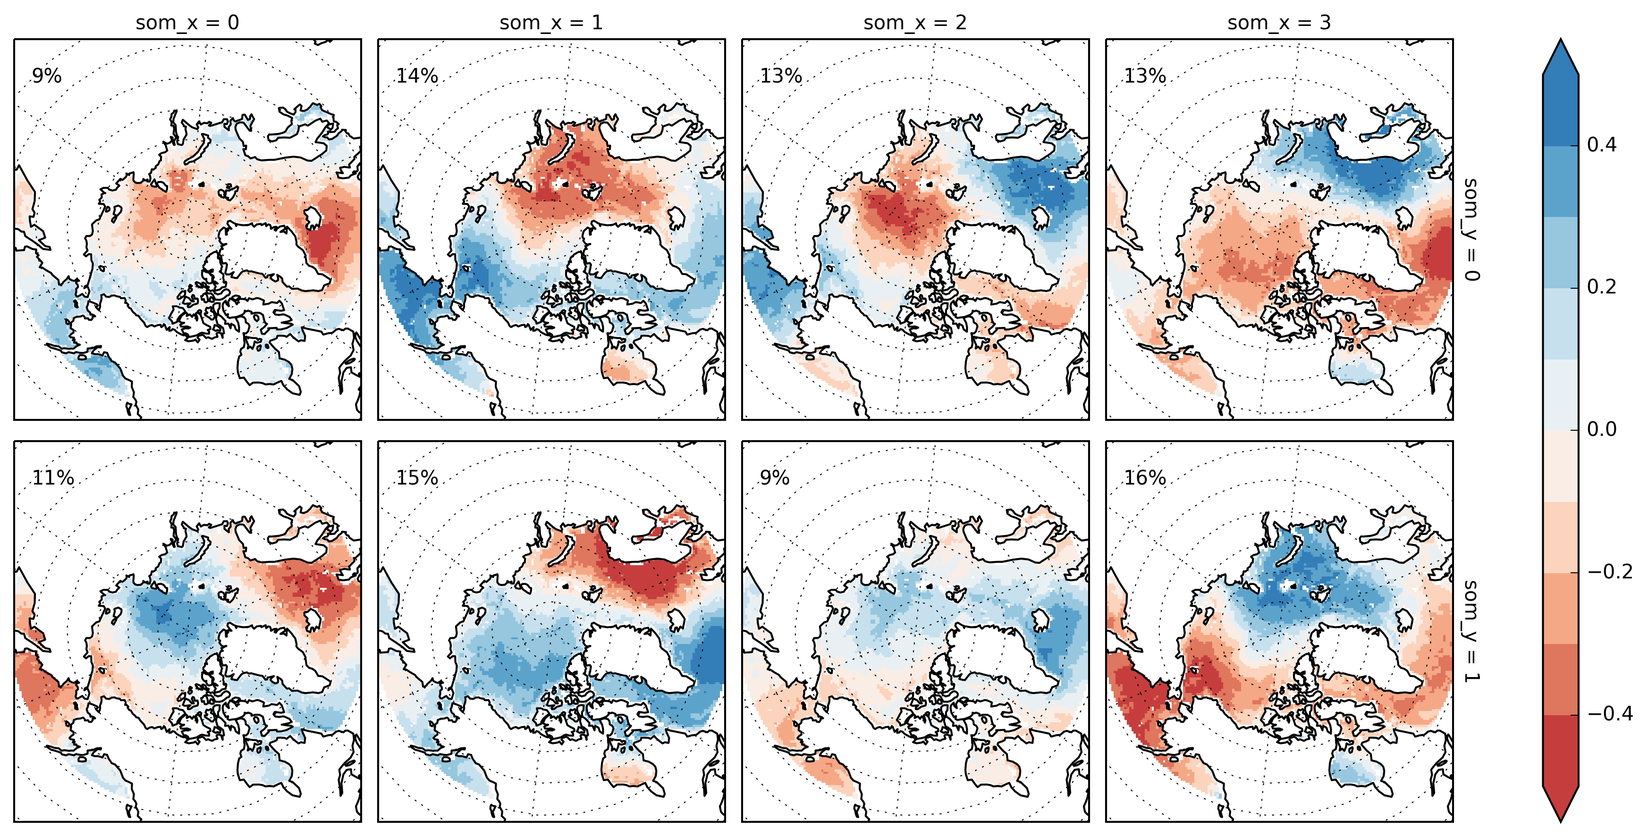
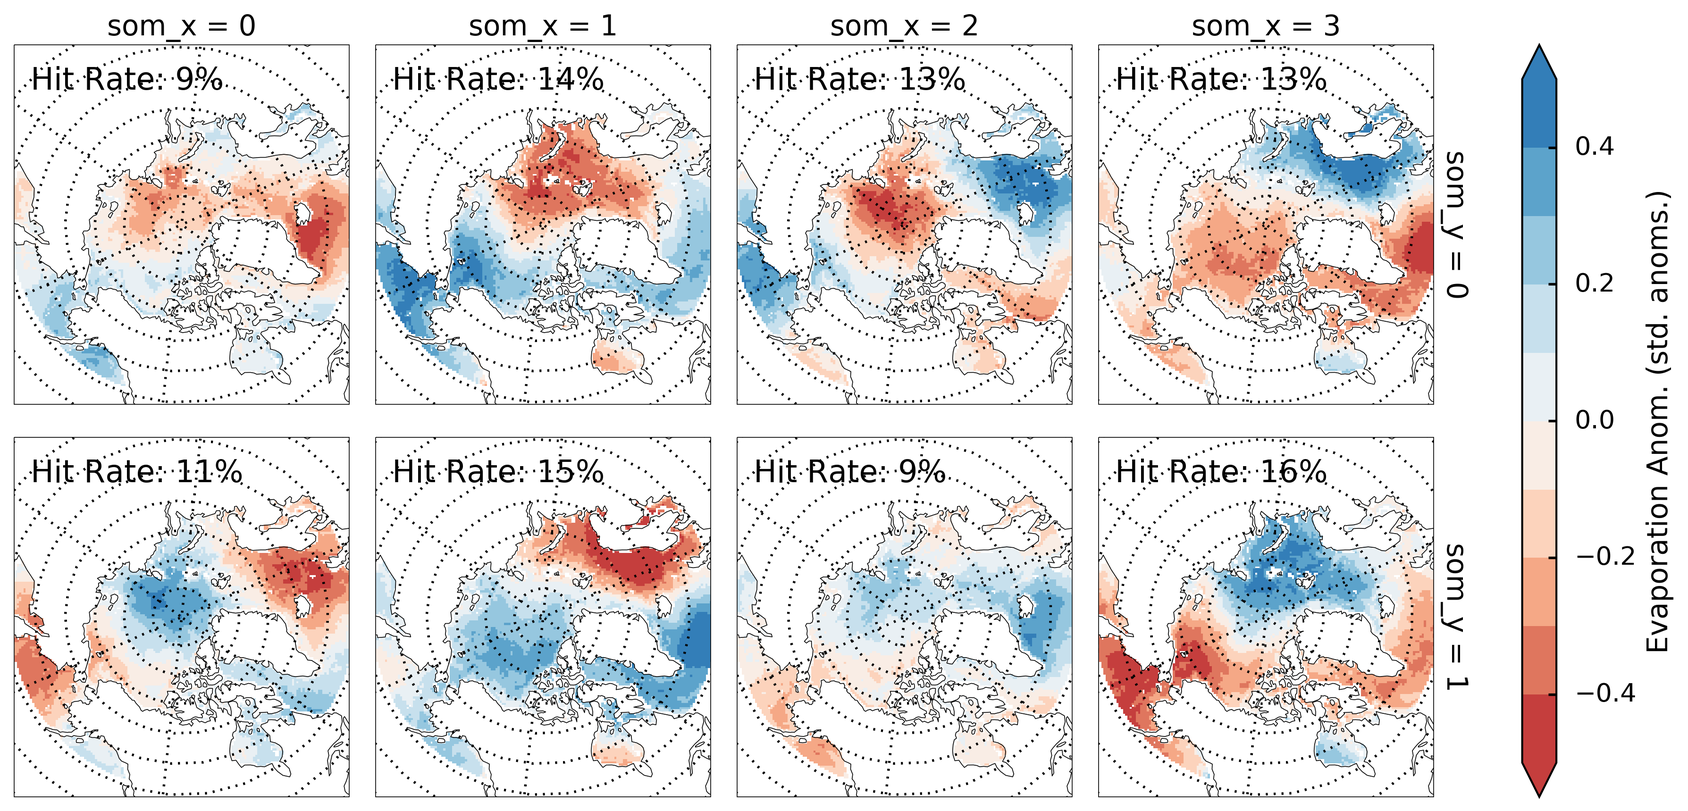
final mods to dissertation

diff --git a/chap5.tex b/chap5.tex
@@ -16,7 +16,7 @@ We hypothesize that the observed correlation between sea ice extent and high-lat
 To better understand the physical mechanisms driving the observed changes in the Arctic climate system and the sensitivity of the Arctic climate system to declining sea ice, we have used the fully-coupled Regional Arctic System Model (RASM) to simulate three distinct sea ice climates.
 The first climate represents normal sea ice extent, while the second and third represent reduced summer sea ice extent.
 The second part of this paper analyzes these three RASM simulations, in conjunction with our observation-based analysis, to understand the relationship between poleward moisture transport, sea ice extent, evaporation from the Arctic Ocean, and precipitation.
-We will present the RASM-simulated Arctic water budget and demonstrate the role of sea ice extent in driving fall precipitation anomalies.
+We present the RASM-simulated Arctic water budget and demonstrate the role of sea ice extent in driving fall precipitation anomalies.
 Finally, we use the Self-Organizing Map (SOM) machine learning technique to identify characteristic patterns of ocean evaporation and sea ice extent that contribute to anomalies in fall season precipitation.
 
 \section{Introduction}
@@ -27,7 +27,7 @@ Rapid declines in sea ice cover have been accompanied by reductions in permafros
 These combined changes have had a marked impact on the regional and global climate systems.
 Driving much of these changes has been a regional warming trend that is nearly twice as large as the global mean \citep{Serreze_2006c,Screen_2010}.
 This disparity in temperature increases is often referred to as Arctic Amplification and is largely explained by the ice-albedo feedback \citep{Curry_1995}.
-While this is likely the primary mechanism that leads to rapid warming in the Arctic, other, secondary feedback processes are also at play.
+While this is likely the primary mechanism that has led to the rapid warming in the Arctic, other, secondary feedback processes are also at play.
 One such feedback process relates the state and fluxes of the Arctic Ocean (sea surface temperatures or SSTs, sea ice cover, evaporation) to precipitation over land, which modulates winter snow cover and permafrost health.
 
 Observational evidence of an amplified hydrologic cycle \citep{Stocker_2005} has been found in the form of increasing precipitation \citep{Rawlins_2006}, runoff \citep{Peterson_2002}, and winter snow accumulations \citep{Kohler_2006,Bulygina_2009,Screen_2012}.
@@ -57,7 +57,7 @@ In Section \ref{sec:results_ch5} we present our analysis of these simulations, f
 \subsection{Model Simulations and Observations}
 We use three simulations from the Regional Arctic System Model \citep[RASM;][]{Hamman_2016a,Roberts_2015a}.
 RASM is a high-resolution, fully-coupled regional ESM that has been recently developed to improve the representation of coupled Arctic processes.
-RASM is comprised of individual land \citep[see][]{Hamman_2016a}, atmosphere \citep[see][]{Cassano_2016}, ocean \citep[see][]{Roberts_2015a}, sea ice \citep[see][]{Roberts_2015a}, and runoff \citep[see][]{Hamman_2016b} components, coupled via the CESM flux coupler \citep{Craig_2012}. % BN: No space after the text in \citep[text] - latex already adds one.
+RASM is comprised of individual land \citep[see][]{Hamman_2016a}, atmosphere \citep[see][]{Cassano_2016}, ocean \citep[see][]{Roberts_2015a}, sea ice \citep[see][]{Roberts_2015a}, and runoff \citep[see][]{Hamman_2016b} components, coupled via the Community Earth System Model (CESM) flux coupler \citep{Craig_2012}.
 In RASM, the atmosphere is forced at its lateral boundaries with the ERA-Interim Reanalysis \citep{Dee_2011} and the ocean's closed boundaries are relaxed to the climatology from \citet{Steele_2001}.
 It is important to note that spectral nudging is applied to temperature and winds in RASM above 500 hPa.
 From a practical perspective, the impact of this nudging means that the synoptic scale circulation patterns in all three RASM simulations closely match those of ERA-Interim \citep{Glisan_2013}.
@@ -88,14 +88,14 @@ Observations of sea ice extent are taken from the National Snow and Ice Data Cen
 Gridded precipitation observations between 1979 and 2014 are taken from CRU TS v.3.23 \citep{Harris_2014}.
 
 \subsection{Self-Organizing Maps}
-In Section \ref{sec:rasm_results}, we present results using the Self-Organizing Maps algorithm \citep[SOMs][]{Kohonen_1998,Hewitson_2002}, which is a technique for dimension reduction that allows for the identification of unique climatological patterns.
-SOMs are a type of unsupervised machine learning, utilizing artificial neural networks to create a lower-dimensional representation of high-dimensional datasets.
+In Section \ref{sec:rasm_results}, we present results using the Self-Organizing Maps algorithm \citep[SOMs;][]{Kohonen_1998,Hewitson_2002}, which is a technique for dimension reduction that allows for the identification of unique climatological patterns.
+SOMs are a technique that uses unsupervised machine learning, utilizing artificial neural networks to create a lower-dimensional representation of high-dimensional datasets.
 They have been applied previously in studies of polar climatology to study synoptic scale atmospheric circulation \citep[e.g.][]{Cassano_2007}, extreme weather events \citep[e.g.][]{Cassano_2015,Glisan_2016}, and coupled ocean-atmosphere processes \citep[e.g.][]{DuVivier_2016}.
 
 In our analysis, we trained a 2x4 SOM, using standardized ocean evaporation anomalies north of 55$^{\circ}$ N from the three RASM simulations described in Section \ref{sec:data_models_ch5} for individual fall months (August-October) between 1985 and 2014.
 In total, the training dataset combines the three simulations, resulting in 270 months of evaporation anomalies.
 By combining the three RASM simulations, we effectively increase the training dataset space and allow for the determination of changes in pattern occurrence between the simulations.
-Standardized anomalies were calculated relative to the climatology for the entire analysis period.
+Standardized anomalies were calculated relative to the mean climatology for the entire analysis period.
 We used an evaluation metric of Euclidean distance, a learning rate of 0.001, and a maximum number of iterations of 2000.
 The shape of the 2x4 SOM was chosen to provide a sufficient number of unique patterns while maximizing the average number of samples in each pattern.
 The SOM was initialized with spatially independent random fields from a standard normal distribution.
@@ -107,8 +107,8 @@ Further details on the SOM algorithm can be found in \citet{Reusch_2005} or \cit
 % Motivation and establishing a connection between sea ice extent and precipitation
 Our hypothesized relationship between precipitation and sea ice extent builds on the observed interannual covariation of precipitation and minimum sea ice extent across the Arctic drainage basin.
 Here we define the Arctic drainage basin as the land areas draining to the ocean model within the RASM model.
-Figure \ref{fig:prec_spatial_corr} shows the Spearman rank-order correlation coefficients between minimum annual sea ice extent and seasonal total precipitation between August-October from the CRU dataset at each grid point within the Arctic drainage basin.
-Across most of the Siberian portion of the domain, correlations or consistently negative with values as low as -0.55.
+Figure \ref{fig:prec_spatial_corr} shows the Spearman rank-order correlation coefficients between minimum annual sea ice extent and total precipitation between August-October from the CRU dataset at each grid point within the Arctic drainage basin.
+Across most of the Siberian portion of the domain, correlations are consistently negative with values as low as -0.55.
 Conversely, correlations across North America and northern Europe are predominantly near zero or positive.
 Generally, a moderately consistent relationship exists between sea ice extent and precipitation, especially in the high-latitude regions of the study domain.
 In the following sections, we will explore this relationship further with the goal of understanding the observed spatial patterns and driving mechanisms.
@@ -124,10 +124,10 @@ In the following sections, we will explore this relationship further with the go
 \label{sec:rasm_results}
 
 % RASM sea ice sensitivity
-Figure \ref{fig:sea_ice_box} shows box-and-whisker plots of sea ice extent from the three RASM simulations, described in Section \ref{sec:data_models_ch5}, compared to the NSIDC observation-based estimates.
-Compared to $RASM_{CONTROL}$, $RASM_{RSI}$ and $RASM_{RSH}$ have reductions in minimum annual sea ice extents of 16\% and 49\% respectively.
-In the fall, these simulations include smaller reductions in mean sea ice cover of 3\% and 11\% respectively (see also supplemental Figures \ref{fig:sea_ice_ts_sup}-\ref{fig:sea_ice_conc_sup}). % BN: I don't understand why these numbers are identical in \% from the previous version of the manuscript which looked at a different period. Are these numbers correct? Or are you referring here to the October - December period, which I would not call the fall in this context (since you already use that for August - October)
-However, compared to the RASM simulations, the NSIDC observations of sea ice extent demonstrate significantly more interannual variability.
+Figure \ref{fig:sea_ice_box} shows box-and-whisker plots of sea ice extent from the three RASM simulations, described in Section \ref{sec:data_models_ch5}, and the NSIDC observation-based estimates.
+Compared to $RASM_{CONTROL}$, $RASM_{RSI}$ and $RASM_{RSH}$ have reductions in September sea ice extents of 16\% and 49\% respectively.
+In the fall, these simulations include smaller reductions in mean sea ice cover of 3\% and 11\% respectively (see also supplemental Figures \ref{fig:sea_ice_ts_sup}-\ref{fig:sea_ice_conc_sup}).
+However, compared to the RASM simulations, the NSIDC observations of sea ice extent demonstrate substantially more interannual variability.
 Individual months can be clearly seen in Figure \ref{fig:sea_ice_box} with the lowest values in each simulation corresponding to August (gray) and September (red) and the highest values corresponding to October (blue).
 The RASM simulations have interannual standard deviations for each of these months that are 1.7 to 3.3 times smaller than the observations.
 The dampened interannual variability of the individual RASM simulations is attributable to the lack a long term trend in sea ice extent (Fig. \ref{fig:sea_ice_min_ts_sup} in the supplemental material) related to a persistent radiation bias in RASM over the central Arctic in the winter \citep{Cassano_2016}.
@@ -140,7 +140,7 @@ The dampened interannual variability of the individual RASM simulations is attri
 \end{figure}
 
 Figure \ref{fig:fwb} presents the freshwater budget for the Arctic Ocean and its terrestrial drainage area, summarized for the fall months (August-October) for the three RASM simulations.
-The  moisture convergence for the three simulations varies less than 27 $km^3$ per season (or 1.5\% of $RASM_{CONTROL}$), with $RASM_{RSH}$ having less moisture convergence than $RASM_{CONTROL}$.
+The  moisture convergence for the three simulations varies by less than 27 $km^3$ per season (or 1.5\% of $RASM_{CONTROL}$), with $RASM_{RSH}$ having less moisture convergence than $RASM_{CONTROL}$.
 Consequently, increases in the distribution of evaporation and precipitation shown in Figure \ref{fig:fwb} are sourced from within the central Arctic.
 The reductions in sea ice extent in $RASM_{RSI}$ and $RASM_{RSH}$ are coincident with increases in ocean evaporation of 38 $km^3$ and 121 $km^3$ per season (15\% and 48\%), respectively.
 These changes in evaporation from the ocean coincide with increases in precipitation over the ocean of 27 $km^3$ and 62 $km^3$ per season (3\% and 11\%) and reductions in convergence over the ocean mask of 11 $km^3$ and 60 $km^3$ (1.5\% and 8\%), respectively.
@@ -148,7 +148,7 @@ Convergence is defined here as P-E between August and October.
 Finally, the precipitation over land is found to increase relative to the baseline case for both $RASM_{RSI}$ and $RASM_{RSH}$ by 26 $km^3$ and 61 $km^3$ per season (or 1\% and 2\%), respectively.
 Also contributing to the increase in precipitation over land is an increase in seasonal evaporation from the land that comes in response to the reduced sea ice and associated warming of $1-3^{\circ}C$ across the high-latitude land areas.
 
-Summarizing the water budget analysis, we find that the forced decreases in albedo in $RASM_{RSI}$ and $RASM_{RSH}$ lead to increases in divergence from the Arctic Ocean. % BN: Be careful with mixing the colloquial use of `significant` with the statistical meaning in scientific papers
+Summarizing the water budget analysis, we find that the forced decreases in albedo in $RASM_{RSI}$ and $RASM_{RSH}$ lead to increases in divergence from the Arctic Ocean.
 Because small increases in evapotranspiration over land are balanced by small changes in convergence, the net change in precipitation over land almost entirely results from increased evaporation over the Arctic Ocean.
 Changes in the spatial patterns of precipitation between the three RASM simulations (not shown) are mostly confined to the Arctic Ocean with less distinct spatial patters over land.
 While this muted response may be partially explained by the limited interannual variability in the RASM sea ice extent, it also indicates that changes in evaporation from the Arctic Ocean must be accompanied with changes in circulation patterns if increases in precipitation are to be attributed to sea ice loss.
@@ -162,20 +162,19 @@ While this muted response may be partially explained by the limited interannual 
 
 % SOM analysis
 We have applied the SOM technique on standardized evaporation anomalies across the Arctic Ocean to better understand the coupling between ocean-sourced evaporation and anomalies in precipitation over land during the fall season.
-As shown by the water budget analysis, fairly large relative increases in ocean evaporation led to small relative changes in precipitation over land, although the increases in the reduced sea ice simulations can be attributed almost entirely to increased ocean evaporation.
+As shown by the water budget analysis, fairly large relative increases in ocean evaporation led to small, but positive, relative changes in precipitation over land, although the increases in the reduced sea ice simulations can be attributed almost entirely to increased ocean evaporation.
 In applying SOMs, we will be able to connect regional patterns of ocean evaporation, sea ice extent, and atmospheric circulation to precipitation patterns over land.
 
 % MASTER SOM
 The full, trained Kohonen Layer (or Master SOM) is shown in Figure \ref{fig:master_som}.
-Our analysis focuses on four SOM nodes that exhibit the largest hit rate (number of months in a particular pattern) and evaporation patterns of interest: (0,1), (1,1), (0,3), and (1,3). % BN: I do not understand the numbering. Assuming the first value is `som_x` and the second value is `som_y`, then there is no (0,3) or (1,3). If you are using `som_y, som_x`, then you need to explain that. As is, I think these should all be reversed. Alternatively change figure 5.4 to explicitly identify each SOM (as in Figure 5.6)
+Our analysis focuses on four SOM nodes that exhibit the largest hit rate (number of months that fall into a particular pattern) and patterns of evaporation anomalies of interest: (0,1), (1,1), (0,3), and (1,3) where the first coordinate is labeled as $som\_y$ and the second as $som\_x$.
 We will show that the first two SOMs represent generally dry patterns (low precipitation over land) while the second two represent generally wet patterns (high precipitation over land) by mapping these patterns to their coincident patterns of precipitation.
 In each of these patterns, the combined position, sign, and magnitude of evaporation anomalies in the central Arctic, Kara/Barents Seas, and North Atlantic Ocean are characteristically different.
 
 \begin{figure}
   \centering
   \includegraphics[width=16cm,keepaspectratio]{master_som}
-  \caption{Master SOM. The hit rate, shown as the percentage of all the months (270) in the training dataset that are part of each pattern, is shown in the top left corner.} % BN: The color bar needs a label. As is, this figure is not very readable since I have no idea what is shown and how to read it. In the text you say that `spatial patterns of evaporation anomalies with patterns of positive evaporation anomalies toward the right of Figure \ref{fig:master_som} and patterns of negative evaporation anomalies toward the left.` but how am I to interpret that from this figure? I can get it from the combined SOM, but not from this figure by itself as far as I can tell. Keep in mind that most people do not use SOMs, so you need to go the extra mile to explain them. The caption should be extended to allow the figure to stand more on its own.
-  % BN: Please increase the label sizes in this plot. Also since you have enought space, precede the numbers with `hit rate: X\%`
+  \caption{Master SOM. The hit rate, shown as the percentage of all the months (270) in the training dataset that are part of each pattern, is shown in the top left corner. Positive evaporation anomalies are shown in blues, while negative evaporation anomalies are shown in red.}
   \label{fig:master_som}
 \end{figure}
 
@@ -183,8 +182,8 @@ In each of these patterns, the combined position, sign, and magnitude of evapora
 Figure \ref{fig:composite_som} presents the mapped fields for the four SOM nodes discussed above.
 Each of the mapped fields represents the composite mean anomalies of all months assigned to each SOM node.
 Here we focus on ocean evaporation, sea level pressure (SLP), sea ice concentration, and precipitation over land.
-For node (0,1), anomalously low evaporation rates from the Kara and Barents Seas are accompanied by anomalously high pressure across the Siberian Shelf.
-This combination leads to negative precipitation anomalies over northern Siberia.
+For node (0,1), anomalously low evaporation rates from the Kara and Barents Seas are accompanied by anomalously high pressure over the Siberian Shelf.
+This combination leads to negative precipitation anomalies across northern Siberia.
 Node (1,1) exhibits positive evaporation anomalies in the central Arctic and negative evaporation anomalies in the Kara and Barents Seas.
 SLPs for this node are anomalously low over Greenland and high over Northern Europe.
 Corresponding precipitation anomalies for node (1,1) are negative over Northern Europe and near normal across Siberia.
@@ -194,13 +193,12 @@ However, adjacent land regions only show relatively small positive anomalies ove
 \begin{figure}
   \centering
   \includegraphics[width=16cm,keepaspectratio]{composite_som}
-  \caption{SOM nodes (0,1), (1,1), (0,3), and (1,3) mapped to ocean evaporation, sea level pressure (SLP), sea ice concentration, and precipitation over land. Values plotted are the average anomalies across all the members of each node.} % BN : See comment above about numbering
-  % BN : May improve readability to repeat the SOM in the first row
+  \caption{SOM nodes (0,1), (1,1), (0,3), and (1,3) mapped to ocean evaporation, sea level pressure (SLP), sea ice concentration, and precipitation over land. Values plotted are the average anomalies across all the members of each node.}
   \label{fig:composite_som}
 \end{figure}
 
-Node (0,3) exhibits positive evaporation anomalies across the European side of the Arctic Ocean, accompanied by lower than normal pressures over Northern Europe. % BN: Please do NOT use the `positive (negative)` notation as it is confusing and ugly. There is a good post or article from Alan Robock somewhere bitching about this and I fully agree.
-Node (1,3) shows positive ocean evaporation anomalies near Siberia and lower than normal pressures over Northern Siberia (1,3).
+Node (0,3) exhibits positive evaporation anomalies across the European side of the Arctic Ocean, accompanied by lower than normal SLP over Northern Europe.
+Node (1,3) shows positive ocean evaporation anomalies near Siberia and lower than normal SLP over Northern Siberia (1,3).
 These patterns lead to positive anomalies in precipitation over land, particularly when the SLP patterns would encourage onshore flow from regions with positive anomalies in evaporation.
 The lack of strong correspondence between sea ice and evaporation anomalies indicates that variability in the fall evaporation flux in RASM is largely being driven by patterns in the ocean and atmosphere rather than changes in sea ice.
 
@@ -209,16 +207,14 @@ The trained SOM can be used to identify the frequency of occurrence of each patt
 Figure \ref{fig:som_hit_freq} plots the pattern frequency, by month and simulation, for each node in the 2x4 SOM.
 Nodes (0,1) and (1,1), which have a large region of positive evaporation anomalies across the Kara and Barents Seas, occur less frequently in $RASM_{RSH}$ as in $RASM_{CONTROL}$.
 The opposite is found in node (1,3), where the pattern frequency is found to increase under reduced sea ice conditions.
-On the whole, the SOM analysis indicates that decreasing sea ice extent and the associated evaporation changes are most likely to contribute to wetting trends over land when these changes are accompanied by a shift in atmospheric circulation (e.g. node (1,3)).
+On the whole, the SOM analysis indicates that decreasing sea ice extent and the associated evaporation changes are most likely to contribute to wetting trends over land when these changes are accompanied by a shift in atmospheric circulation [e.g. node (1,3)].
 Global climate models tend to suggest that future Arctic climate will be stormier \citep{Vavrus_2012} and that fall and winter circulation patters may trend toward a more variable pattern.
-However, the patterns with large shifts in frequency ([)nodes (0,1) and (1,1)) change in ways that limit the impact of sea ice loss, which indicates that the precipitation response may be dampened.
+However, the patterns with large shifts in frequency [nodes (0,1) and (1,1)] change in ways that limit the impact of sea ice loss, which indicates that the precipitation response may be dampened.
 
 \begin{figure}
   \centering
   \includegraphics[width=12cm,keepaspectratio]{som_hit_freq}
-  \caption{SOM pattern frequency by month and RASM simulation.} % BN: Caption needs to be expanded. What do the colors mean? Figure often end iup leading a life of their own and should be more self-containted.
-  % BN: Why are you showing all the SOMS here rather than only the four that you selected for analysis
-
+  \caption{SOM pattern frequency by month and RASM simulation for the entire 2x4 SOM. The red shaded cells represent combinations that occur more frequently. The total number of occurrences for each combination is shown as an integer in each cell.}
   \label{fig:som_hit_freq}
 \end{figure}
 
@@ -227,12 +223,12 @@ However, the patterns with large shifts in frequency ([)nodes (0,1) and (1,1)) c
 We have investigated the relationship between sea ice extent and fall precipitation over the Pan Arctic land areas.
 We have demonstrated an interannual covariation between observations of sea ice extent and precipitation over land.
 Our initial hypothesis was that variations in sea ice extent were a driving factor in precipitation over land in the fall.
-A water budget analysis highlighted that relatively large changes in fall evaporation from the Arctic Ocean are expected (\~50\% in our simulation with the lowest sea ice concentration), but that these changes lead to only relatively small changes in the precipitation flux over land.
+A freshwater budget analysis highlighted that relatively large changes in fall evaporation from the Arctic Ocean are expected (about 50\% in our simulation with the lowest sea ice concentration), but that these changes only lead to relatively small changes in the precipitation flux over land.
 However, our analysis also attributed almost all of the increases in precipitation to increases in ocean evaporation.
 Furthermore, the modest increases in terrestrial fall season precipitation simulated by RASM under reduced sea ice conditions indicate that there will have to be significant circulation changes in the future if ocean sourced evaporation is to significantly impact precipitation over land.
 Our SOM analysis has also pointed us in this direction, which is that the ties between evaporation and precipitation are only robust under certain atmospheric circulations.
 Across Eurasia, the dominant coupling between precipitation and Arctic Ocean evaporation requires low pressure anomalies over the central Arctic, similar to the negative phase of the Arctic Oscillation \citep{Thompson_1998}.
-Previous work by \citet{Cassano_2014}, using partially coupled global simulations with prescribed sea ice, has also indicated that reductions in sea ice extent in the fall may contribute to negative sea level pressure anomalies over the Arctic Ocean.
+Previous work by \citet{Cassano_2014}, using partially coupled global simulations with prescribed sea ice, has also indicated that reductions in sea ice extent during the fall season may contribute to negative sea level pressure anomalies over the Arctic Ocean.
 
 Of particular interest is the sea ice state of the Kara and Barents Seas.
 As sea ice declines, we expect that this coupling will become stronger, especially if the Arctic is to become stormier.
